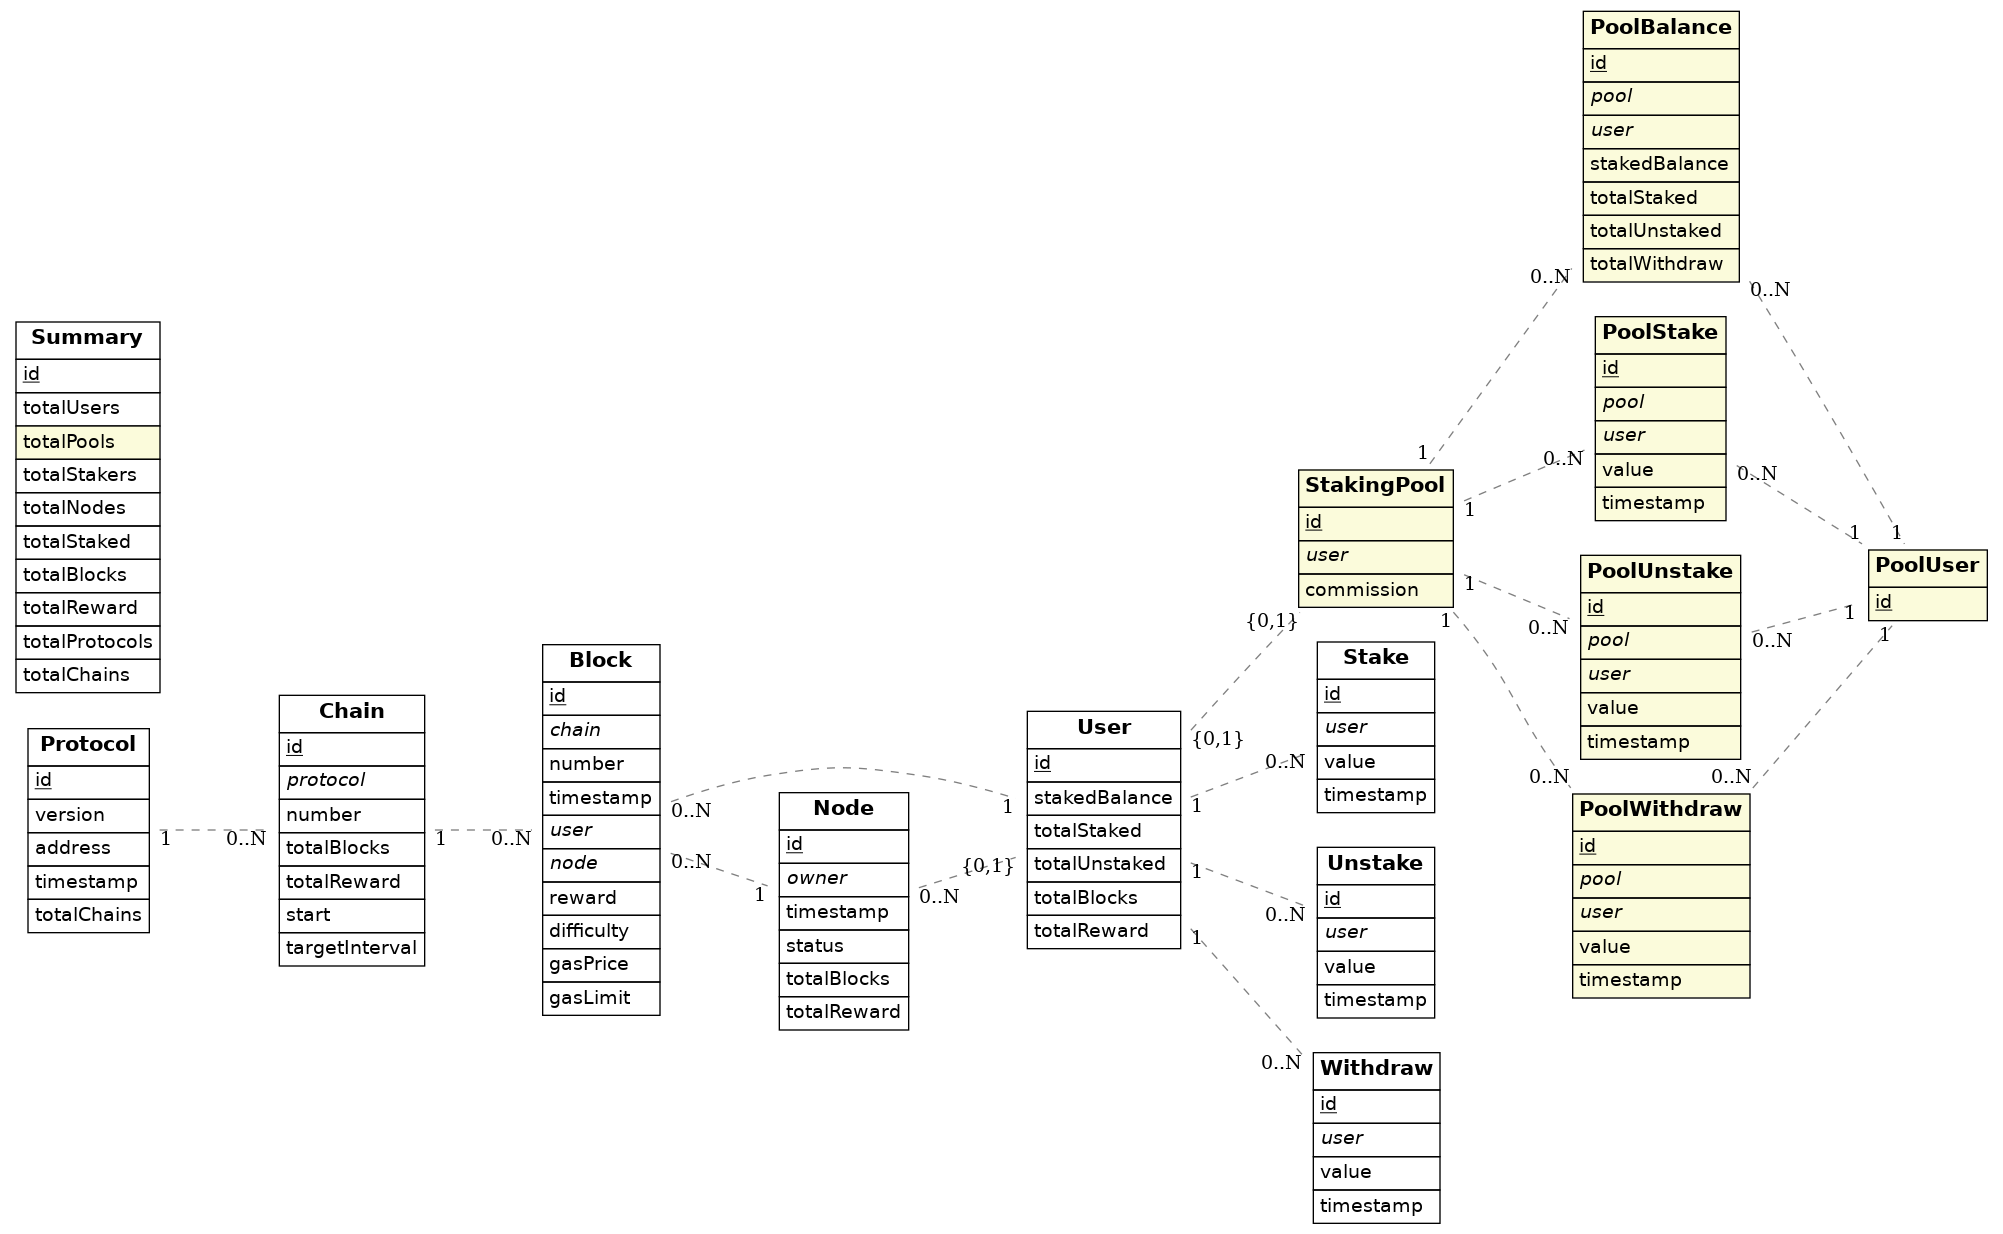
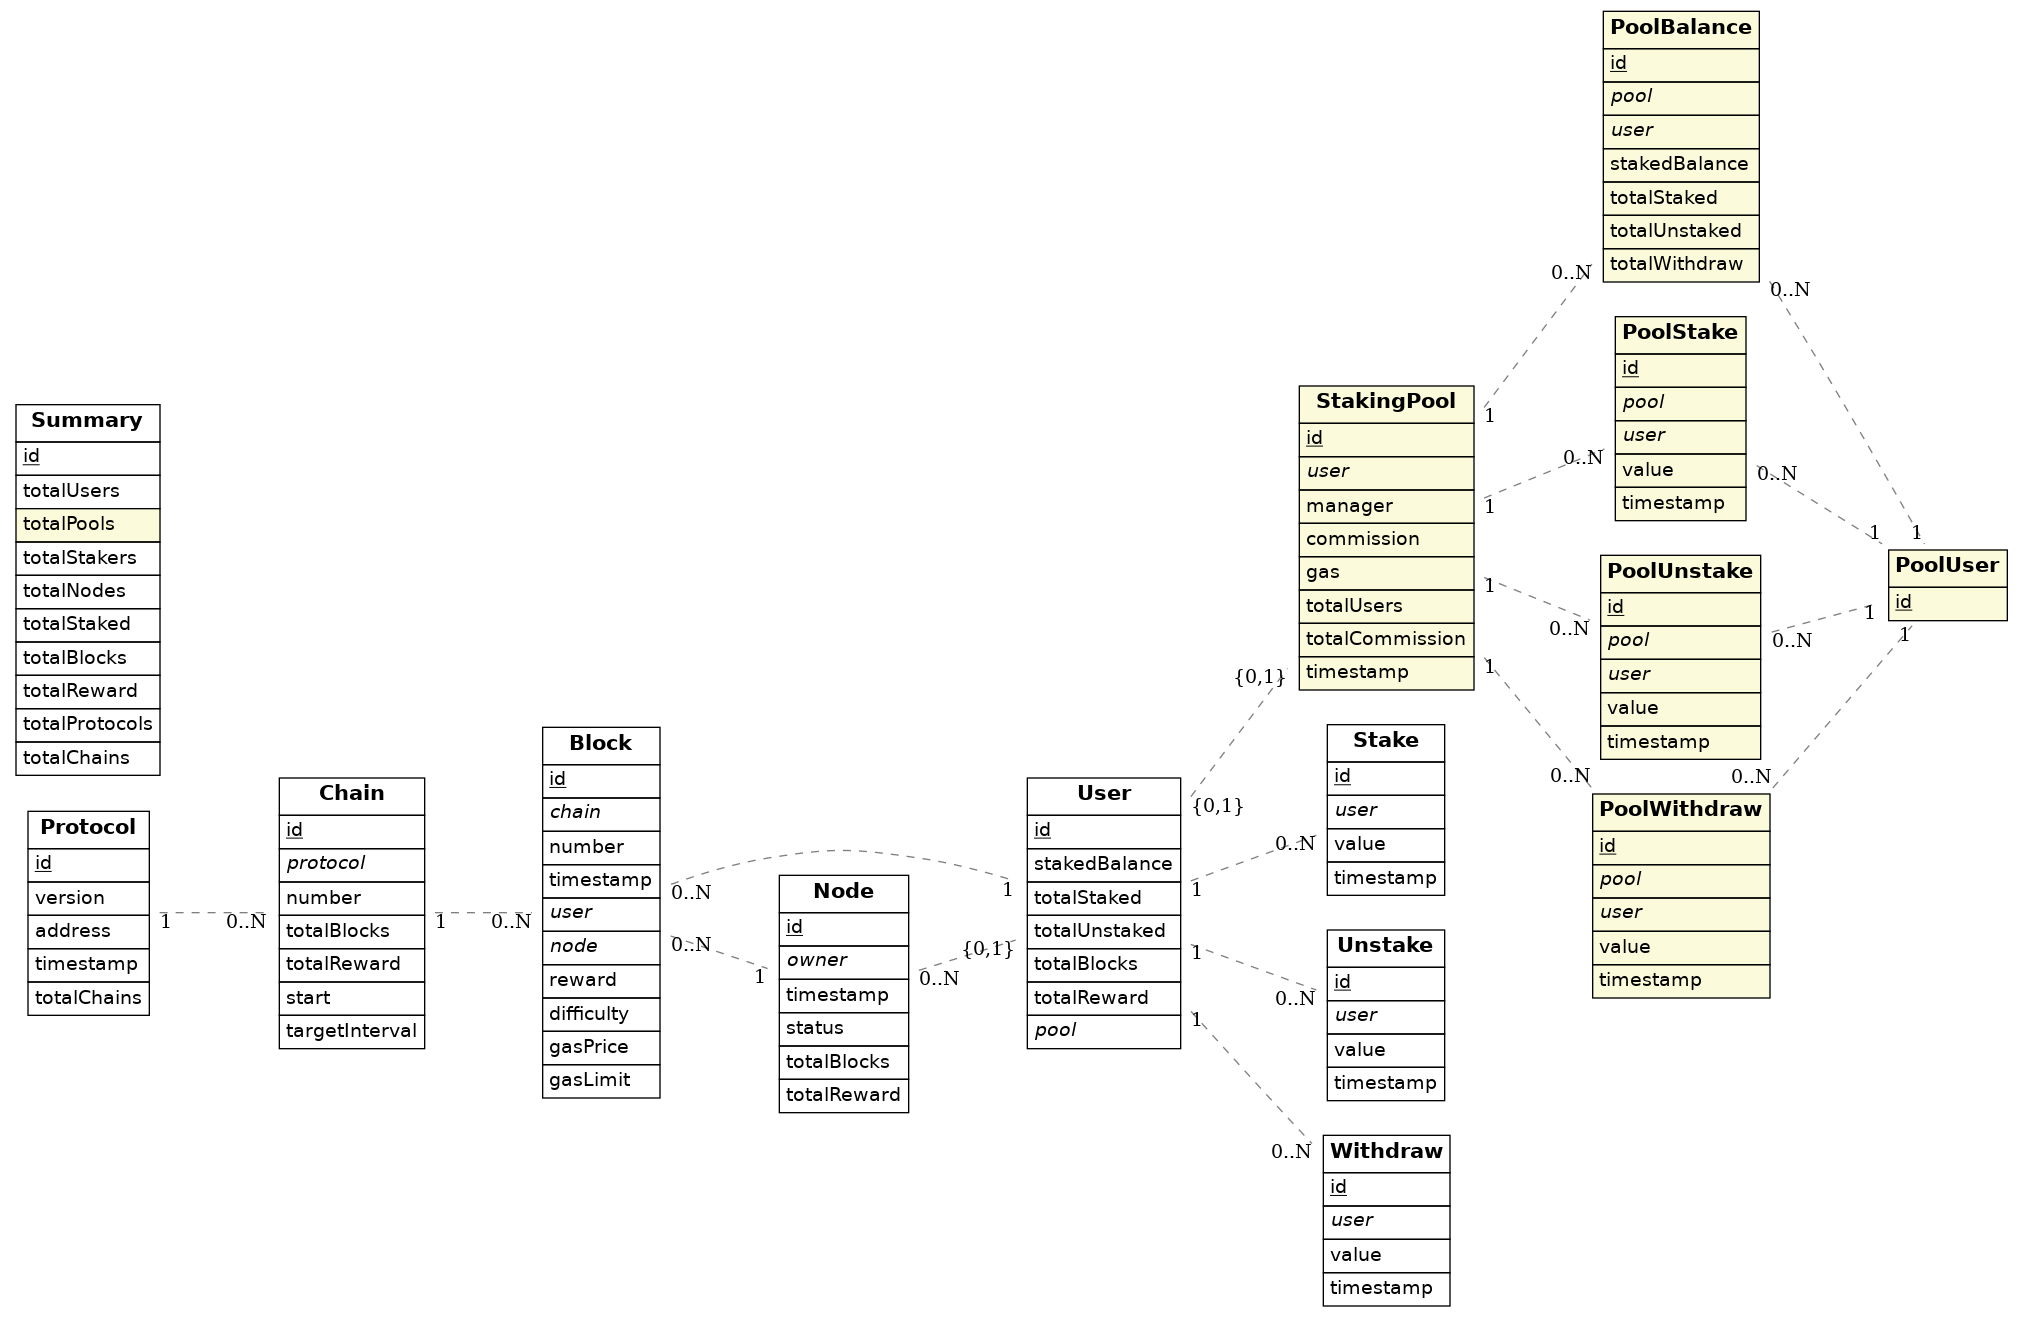
Adding optional reference from user to pool

diff --git a/src/pool.ts b/src/pool.ts
@@ -90,8 +90,6 @@ function createPool(
 ): StakingPool {
     // create user
     let u = user.loadOrCreate(address)
-    u.isPool = true
-    u.save()
 
     // create pool
     let pool = new StakingPool(address.toHex())
@@ -101,6 +99,10 @@ function createPool(
     pool.totalUsers = 0
     pool.totalCommission = BigInt.fromI32(0)
     pool.timestamp = timestamp
+
+    // circular reference between pool and user
+    u.pool = pool.id
+    u.save()
 
     return pool
 }

diff --git a/src/user.ts b/src/user.ts
@@ -30,7 +30,6 @@ export function loadOrCreate(address: Address): User {
         user.stakedBalance = BigInt.fromI32(0)
         user.totalBlocks = 0
         user.totalReward = BigInt.fromI32(0)
-        user.isPool = false
         user.save()
 
         let s = summary.loadOrCreate()
